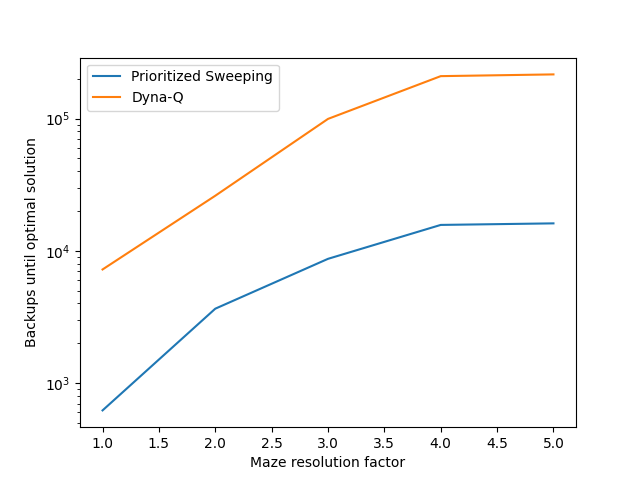
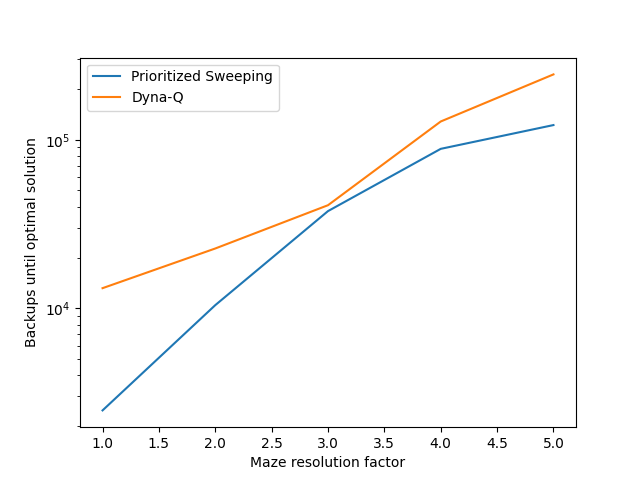
- Added some changes

diff --git a/mazes/src/functions.py b/mazes/src/functions.py
@@ -219,7 +219,6 @@ def prioritized_sweeping(action_value_estimates, model, maze, dyna_params):
             # update the state action value for the sample
             delta = reward_ + dyna_params.discount * np.max(action_value_estimates[next_state_[0], next_state_[1], :]) - \
                     action_value_estimates[state_[0], state_[1], action_]
-            action_value_estimates[state_[0], state_[1], action_] += dyna_params.step_size * delta
 
             # update action-value estimates
             action_value_estimates[state_[0], state_[1], action_] += dyna_params.step_size * delta
